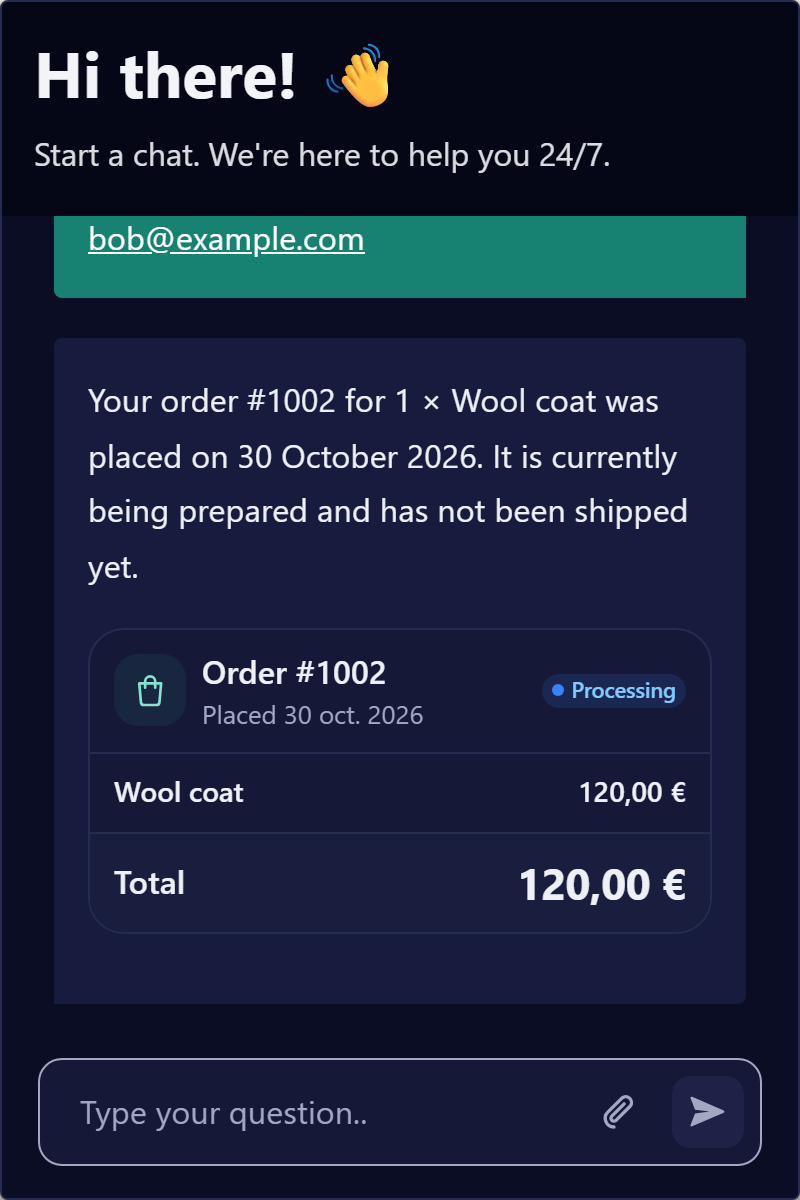
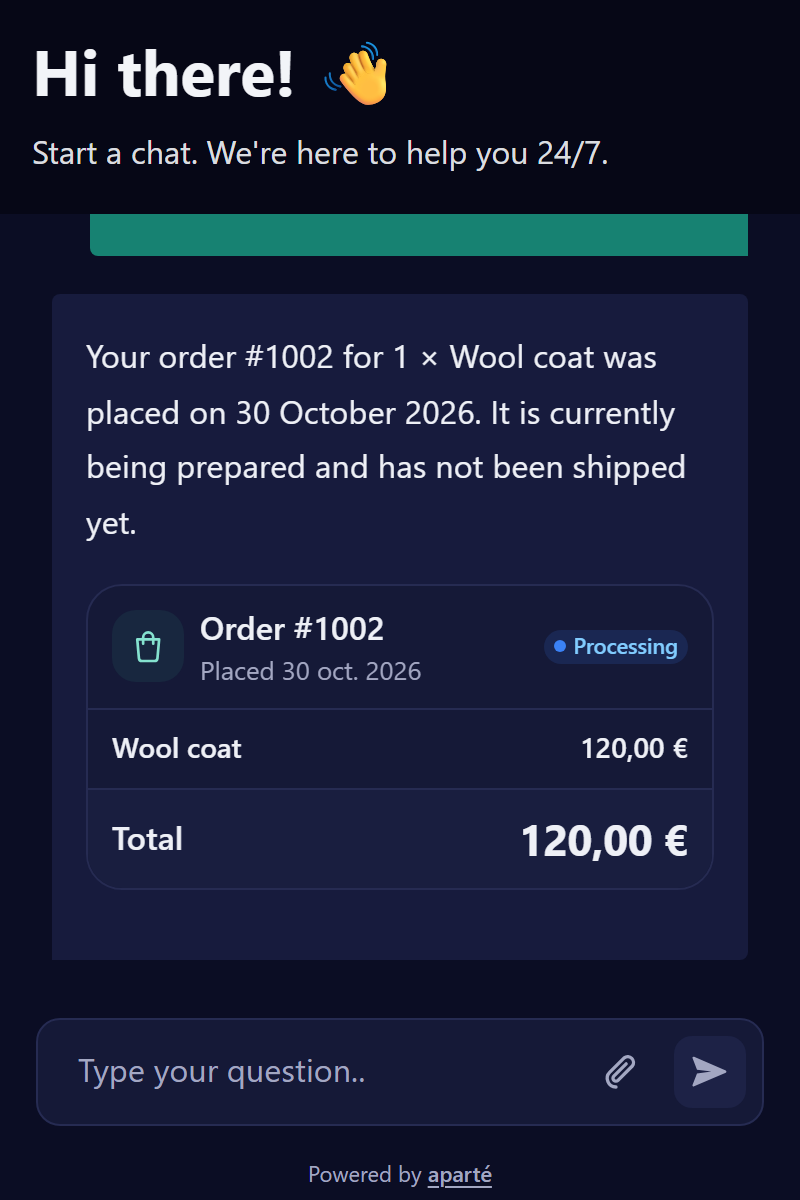
feat: the Powered by aparté line always shows, its link underlined; new README screenshots

diff --git a/src/__tests__/create-chat.test.ts b/src/__tests__/create-chat.test.ts
@@ -80,7 +80,7 @@ describe('createChat: the widget, as n8n draws it', () => {
         expect(chat.element.querySelector('h1, h2, h3')).toBeNull();
     });
 
-    it('says it is powered by aparté under the input, in the chat\'s language, unless poweredBy is false', () => {
+    it('says it is powered by aparté under the input, in the chat\'s language, always', () => {
         n8n();
         const chat = mount({ loadPreviousSession: false, defaultLanguage: 'fr' });
         const line = chat.element.querySelector('.aparte-n8n__powered')!;
@@ -92,8 +92,12 @@ describe('createChat: the widget, as n8n draws it', () => {
         expect(line.previousElementSibling?.tagName).toBe('APARTE-CHAT');
         chat.destroy();
 
-        const quiet = mount({ loadPreviousSession: false, poweredBy: false });
-        expect(quiet.element.querySelector('.aparte-n8n__powered')).toBeNull();
+        // `i18n` changes its words, not its presence: words without the link get the default.
+        const reworded = mount({ loadPreviousSession: false, i18n: { en: { poweredBy: 'Built with {aparte}' } } });
+        expect(reworded.element.querySelector('.aparte-n8n__powered')?.textContent).toBe('Built with aparté');
+        reworded.destroy();
+        const emptied = mount({ loadPreviousSession: false, i18n: { en: { poweredBy: '' } } });
+        expect(emptied.element.querySelector('.aparte-n8n__powered a')?.textContent).toBe('aparté');
     });
 
     it('mounts in a target of yours, by element or by selector, and a full-page chat with no button and no close', () => {

diff --git a/src/create-chat.ts b/src/create-chat.ts
@@ -178,12 +178,6 @@ export interface ChatOptions {
      */
     replies?: boolean;
     /**
-     * A small grey line under the input, "Powered by aparté", linking to the library this
-     * widget is built with. `false` hides it.
-     * @default true
-     */
-    poweredBy?: boolean;
-    /**
      * Extend the chat with aparté's plugins and your own cards: called once with the widget's
      * config, before the first message. What it returns, if a function, runs on `destroy()`.
      *
@@ -462,9 +456,12 @@ export function createChat(options: ChatOptions): Chat {
     chat.append(el('aparte-chat-viewport'), el('aparte-elicitation'), composer);
 
     card.append(header, chat);
-    if (options.poweredBy !== false && strings.poweredBy) {
+    // "Powered by aparté", a small grey line under the input, always: the words follow `i18n`,
+    // the line and its link stay.
+    {
         const line = el('p', 'aparte-n8n__powered');
-        const [before, after = ''] = strings.poweredBy.split('{aparte}');
+        const words = strings.poweredBy?.includes('{aparte}') ? strings.poweredBy : 'Powered by {aparte}';
+        const [before, after = ''] = words.split('{aparte}');
         const link = el('a', undefined, 'aparté');
         link.setAttribute('href', 'https://apartejs.dev/?ref=n8n-chat');
         link.setAttribute('target', '_blank');

diff --git a/src/theme.css b/src/theme.css
@@ -220,8 +220,8 @@
   padding: var(--chat--spacing, 1rem);
 }
 
-/* "Powered by aparté": one small grey line under the input, not a band. `poweredBy: false`
-   leaves it out. */
+/* "Powered by aparté": one small grey line under the input, not a band; "aparté" is the
+   link, underlined so it reads as one. */
 .aparte-n8n__powered {
   margin: 0;
   flex: none;
@@ -234,13 +234,14 @@
 
 .aparte-n8n__powered a {
   color: inherit;
-  text-decoration: none;
   font-weight: 600;
+  text-decoration: underline;
+  text-underline-offset: 2px;
 }
 
 .aparte-n8n__powered a:hover,
 .aparte-n8n__powered a:focus-visible {
-  text-decoration: underline;
+  color: var(--aparte-text);
 }
 
 .aparte-n8n__footer {

diff --git a/src/strings.ts b/src/strings.ts
@@ -17,7 +17,7 @@ export interface ChatStrings {
     subtitle: string;
     /** A line under the chat; an empty string leaves it out. */
     footer: string;
-    /** The small line under the input, `{aparte}` standing for the link (`poweredBy: false` hides it). */
+    /** The small line under the input, `{aparte}` standing for the link to the library. */
     poweredBy: string;
     /** The welcome screen's button, with `showWelcomeScreen`. */
     getStarted: string;

diff --git a/README.md b/README.md
@@ -7,8 +7,8 @@ your call. And your workflow can answer with **rich cards** — an order, a book
 weather — and offer **quick replies** the visitor clicks. [See it live](https://n8n-chat.apartejs.dev).
 
 <p>
-  <img src="docs/widget-card-order.png" alt="The widget open in a corner of a shop's page: the visitor asks where their order is, and the answer comes with the order's card, its items and total" width="300">
-  <img src="docs/widget-card-dark.png" alt="The same widget in its dark scheme, answering a booking with the booking's card" width="300">
+  <img src="https://raw.githubusercontent.com/apartejs/n8n-chat/v0.5.0/docs/widget-card-order.png" alt="The widget answering where order 1001 is, with the order's card: its items, its status and its total, and a small Powered by aparté line under the input" width="300">
+  <img src="https://raw.githubusercontent.com/apartejs/n8n-chat/v0.5.0/docs/widget-card-dark.png" alt="The same widget in its dark scheme, answering about order 1002 with its card" width="300">
 </p>
 
 - Rich cards your workflow writes as text: weather, order and booking, product, place, list, key
@@ -22,7 +22,7 @@ weather — and offer **quick replies** the visitor clicks. [See it live](https:
 - About 143 KB compressed on the first load, against about 471 KB (measured 2026-10-31, `@n8n/chat` 1.44.7).
 - A handle to drive it from your page: `open`, `close`, `toggle`, `send`, `reset`, `setDisabled`,
   `destroy`.
-- MIT. A small "Powered by aparté" line sits under the input; `poweredBy: false` removes it.
+- MIT. A small grey "Powered by aparté" line sits under the input, linking to [apartejs.dev](https://apartejs.dev).
 
 ## Install
 
@@ -119,7 +119,6 @@ memory on the agent only, n8n answers that request with an error.
 | `beforeMessageSent`, `afterMessageSent` | hooks around each message | — |
 | `suggestions` | questions offered above the input until the first message | — |
 | `replies` | show the [quick replies](#quick-replies) an answer offers (a ` ```suggestions ` block) above the input | `true` |
-| `poweredBy` | a small grey "Powered by aparté" line under the input, linking to [apartejs.dev](https://apartejs.dev); `false` hides it | `true` |
 | `colorScheme` | `'light'`, `'dark'` or `'auto'` (the visitor's) | `'light'` |
 | `fetch` | the `fetch` every request goes through | the global one |
 | `enableStreaming`, `theme` | accepted for compatibility | — |
